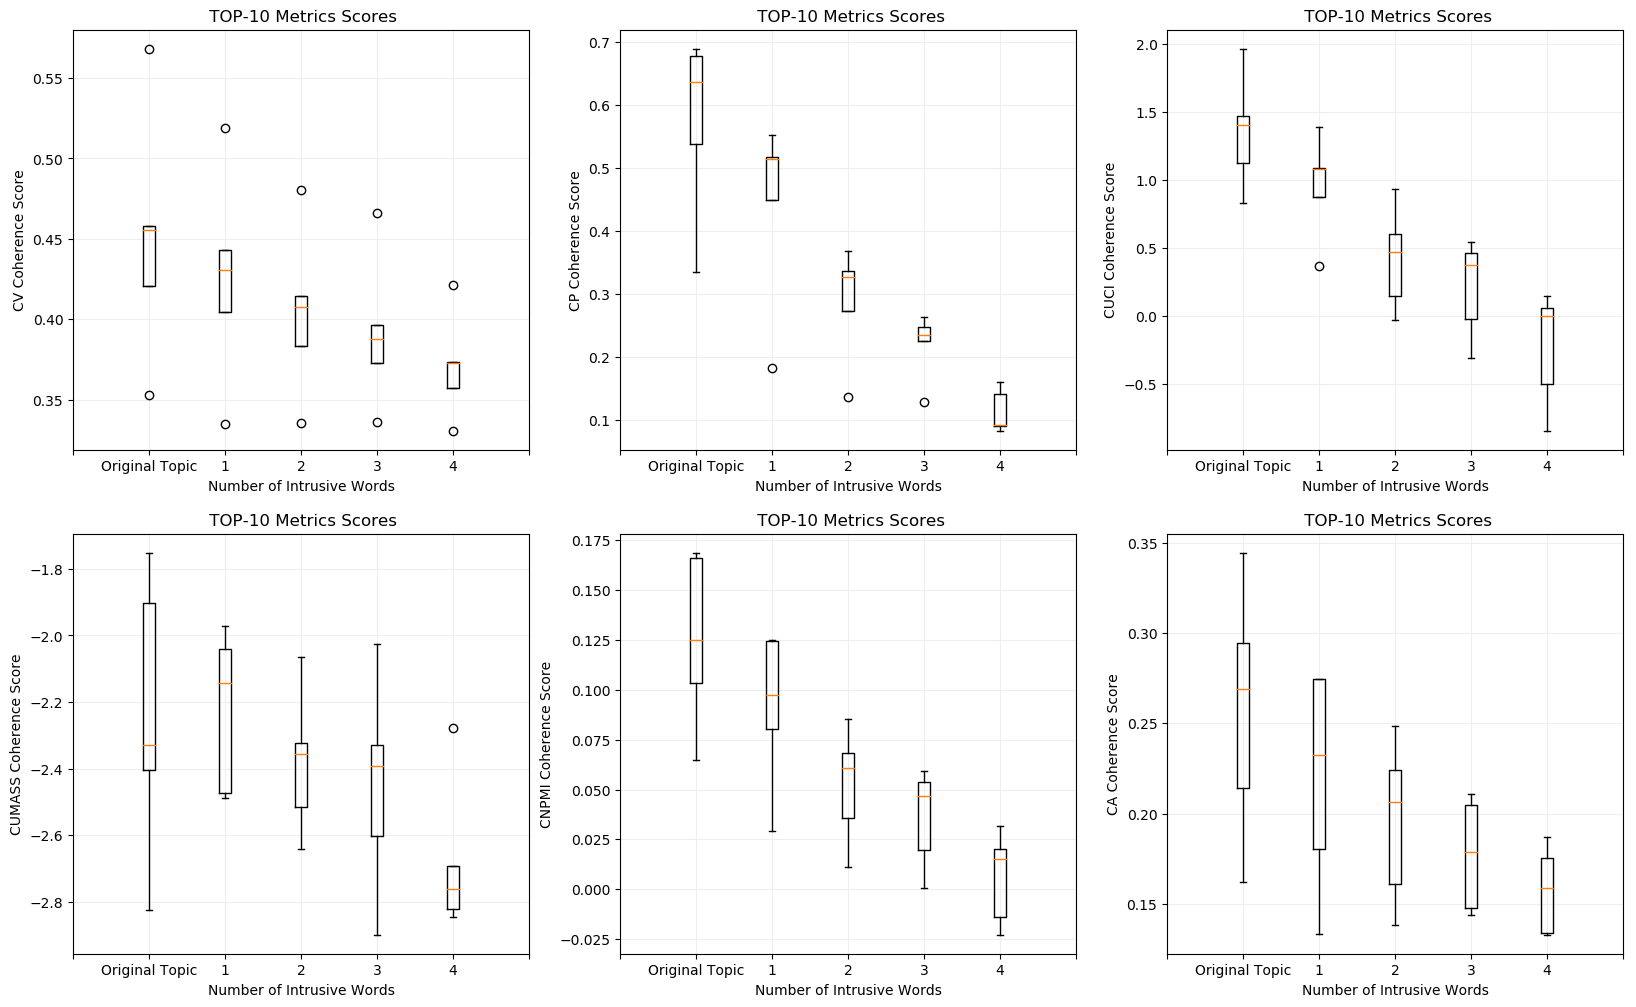
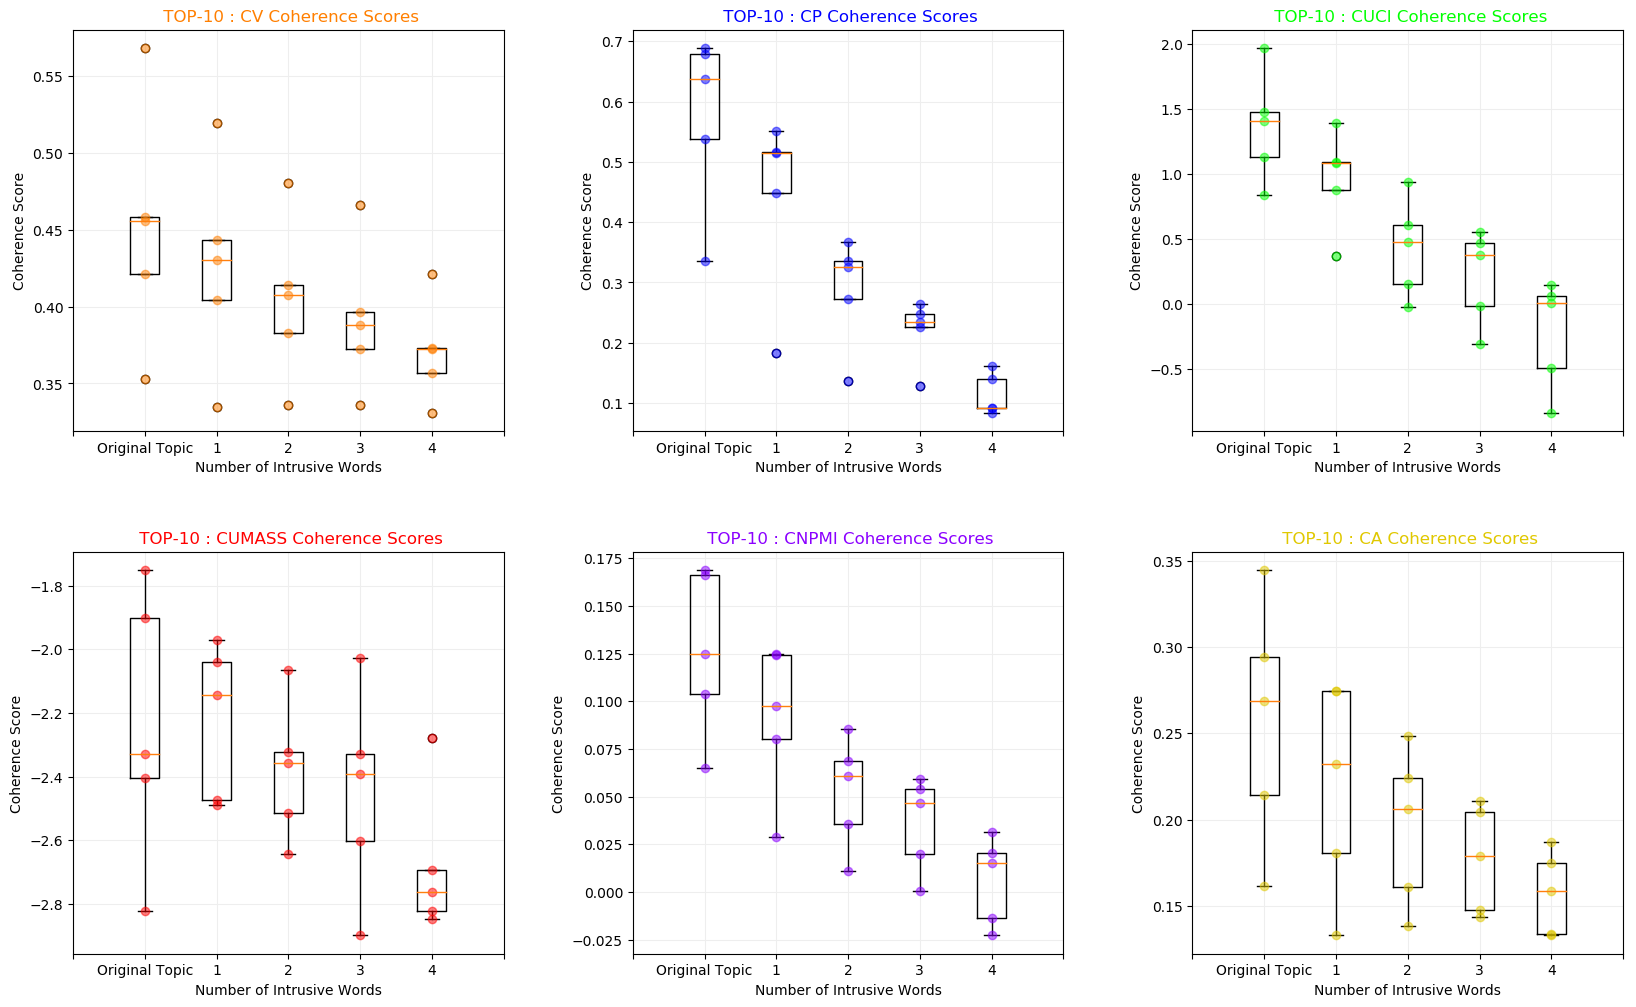
Added the colors and points distribution on boxplot graphics.

diff --git a/graphics/plot_boxes.py b/graphics/plot_boxes.py
@@ -8,9 +8,9 @@ COLORS = ['#FF7F00', '#0000FF', '#00FF00', '#FF0000', '#8B00FF', '#E0C800']
 
 def subplot_box(position, metric, i, figure, subplots, size):
     subplots.append(figure.add_subplot(position))
-    subplots[-1].set_title(' TOP-' + str(size) + ' Metrics Scores')
+    subplots[-1].set_title(' TOP-' + str(size) + ' : ' + METRICS[i] + ' Coherence Scores', color=COLORS[i])
     subplots[-1].grid(linestyle='-', color='#eeeeee')
-    subplots[-1].set_ylabel(str(METRICS[i]) + " Coherence Score")
+    subplots[-1].set_ylabel("Coherence Score")
     subplots[-1].set_xlabel("Number of Intrusive Words")
     data1 = metric[0]
     data2 = metric[1]
@@ -18,16 +18,25 @@ def subplot_box(position, metric, i, figure, subplots, size):
     if len(metric) == 5:
         data4 = metric[3]
         data5 = metric[4]
-    subplots[-1].boxplot(data1[:,[i]], positions = [2])
-    subplots[-1].boxplot(data2[:,[i]], positions = [3])
-    subplots[-1].boxplot(data3[:,[i]], positions = [4])
+    subplots[-1].boxplot(data1[:,[i]], widths=0.4, positions = [2])
+    subplots[-1].boxplot(data2[:,[i]], widths=0.4, positions = [3])
+    subplots[-1].boxplot(data3[:,[i]], widths=0.4, positions = [4])
     if len(metric) == 5:
-        subplots[-1].boxplot(data4[:,[i]], positions = [5])
-        subplots[-1].boxplot(data5[:,[i]], positions = [6])
+        subplots[-1].boxplot(data4[:,[i]], widths=0.4, positions = [5])
+        subplots[-1].boxplot(data5[:,[i]], widths=0.4, positions = [6])
+
+    plt.plot(np.ones(5)*2, data1[:,[i]], 'o', color=COLORS[i], alpha=0.5)
+    plt.plot(np.ones(5)*3, data2[:,[i]], 'o', color=COLORS[i], alpha=0.5)
+    plt.plot(np.ones(5)*4, data3[:,[i]], 'o', color=COLORS[i], alpha=0.5)
+    if len(metric) == 5:
+        plt.plot(np.ones(5)*5, data4[:,[i]], 'o', color=COLORS[i], alpha=0.5)
+        plt.plot(np.ones(5)*6, data5[:,[i]], 'o', color=COLORS[i], alpha=0.5)
+
     if len(metric) == 5:
         plt.xticks([1,2,3,4,5,6,7], ['','Original Topic', 1, 2, 3, 4, ''])
     else:
         plt.xticks([1,2,3,4,5], ['','Original Topic', 1, 2,''])
+    plt.subplots_adjust(wspace=0.3, hspace=0.3)
     return True
 
 def plot_boxes(TopN, size):
